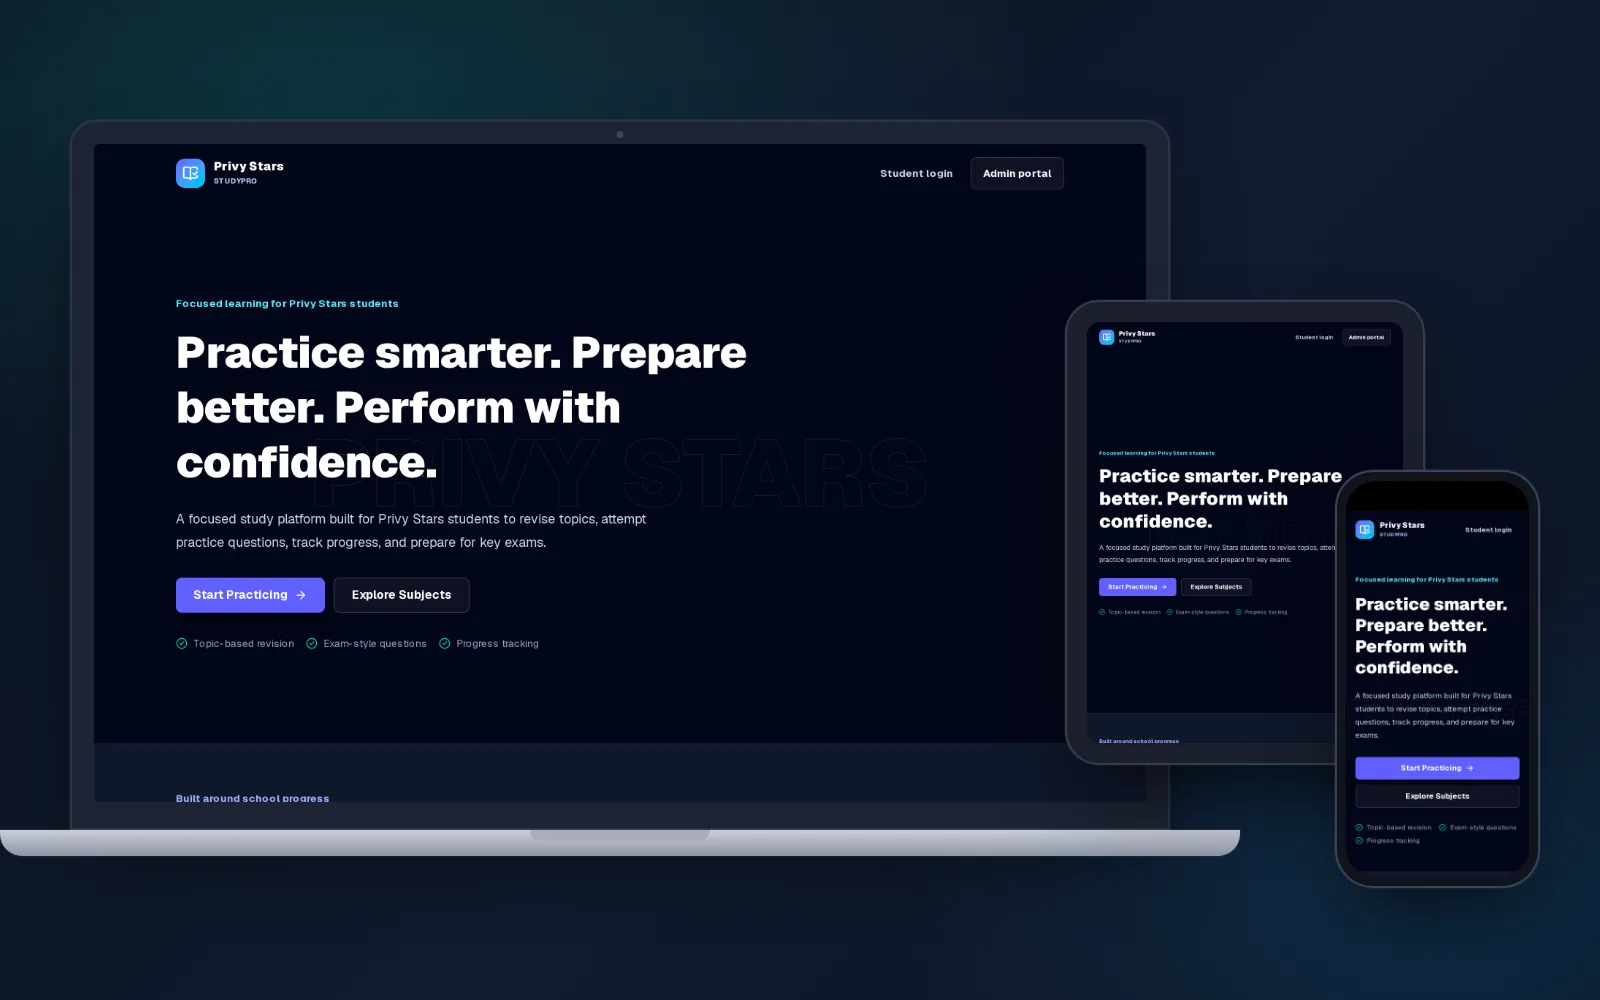
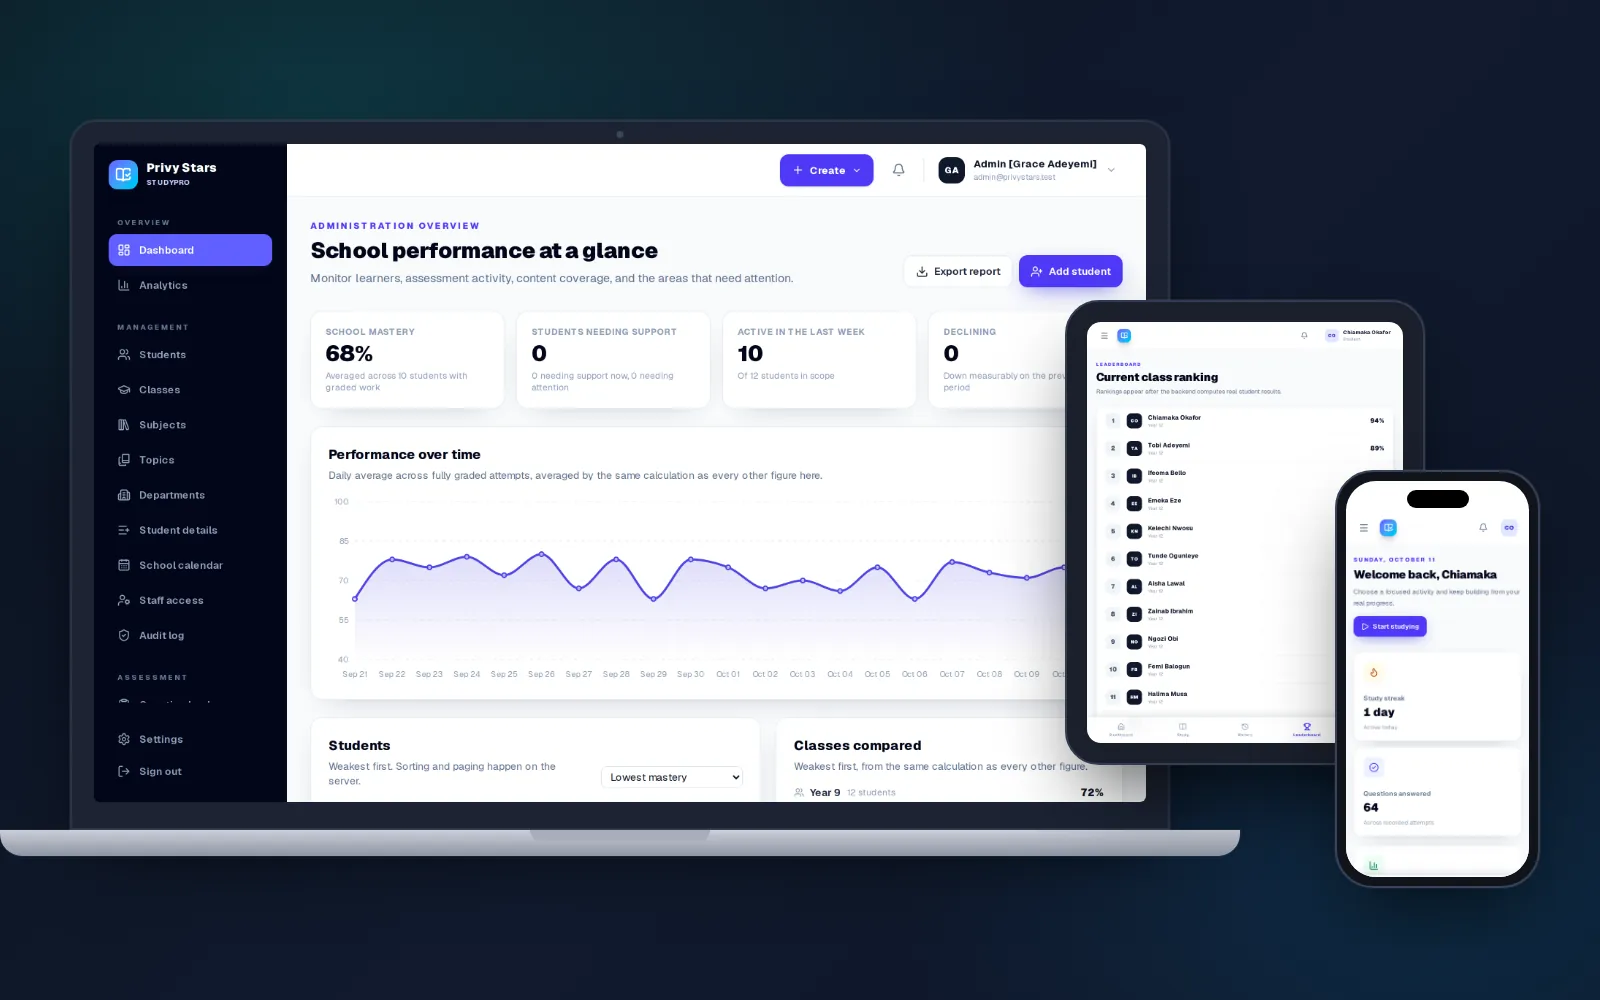
Add 316 REGGZ and FastUI; real StudyPro screens; phone-only app mockups
- New projects: 316 REGGZ (creative studio site) and FastUI, each built
  and captured locally on desktop, tablet and phone.
- StudyPro mockup now shows the real admin dashboard, class leaderboard
  and student dashboard, captured from a local backend with sample data.
- Finance Tracker and Dera Library, being mobile apps, are shown on three
  phones only.
- Phone status bars in every mockup now match the app's own colour.

Claude-Session: https://claude.ai/code/session_01CryoP9s3CBH3DpE9Uxr1Vy

diff --git a/src/data/projects.ts b/src/data/projects.ts
@@ -13,6 +13,8 @@ import timeTableMockup from "../assets/projects/time-table.webp";
 import mathExamEditorMockup from "../assets/projects/math-exam-editor.webp";
 import streamvibeMockup from "../assets/projects/streamvibe.webp";
 import banqueeMockup from "../assets/projects/banquee.webp";
+import reggzMockup from "../assets/projects/316-reggz.webp";
+import fastUiMockup from "../assets/projects/fast-ui.webp";
 import type { Project } from "../types";
 
 /**
@@ -80,6 +82,21 @@ A separate admin dashboard (React, Vite and Firebase) lets the spa confirm, canc
     order: 4,
   },
   {
+    id: "316-reggz",
+    slug: "316-reggz",
+    title: "316 REGGZ",
+    imageUrl: reggzMockup,
+    summary: "Image-led portfolio for an independent Lagos creative studio, built like an album rather than a filing cabinet.",
+    description: `316 REGGZ is a creative studio in Lagos working across design, motion, branding and visual direction. The website puts the artwork first: large images, typography with attitude, and motion as part of the storytelling.
+
+At its centre is the Album, a growing archive of music artwork, brand identities, campaign visuals and motion work, with a page for each project, plus company, works and contact pages.
+
+Built with Next.js, TypeScript and Sass, with GSAP animation, Swiper carousels and a masonry gallery, statically generated for speed.`,
+    liveUrl: "https://316-reggz-website.vercel.app",
+    tech: ["Next.js", "TypeScript", "Sass", "GSAP", "Swiper"],
+    order: 5,
+  },
+  {
     id: "blogger",
     slug: "blogger",
     title: "Portfolio & Publishing CMS",
@@ -92,7 +109,7 @@ Firebase handles auth, Firestore and storage, with permissions enforced by secur
 Quality is covered by unit tests, API checks against the Firebase emulators and Playwright end-to-end tests on desktop and mobile in CI.`,
     repoUrl: "https://github.com/bos-code/blogger",
     tech: ["React 19", "TypeScript", "Firebase", "TipTap", "TanStack Query", "Playwright"],
-    order: 5,
+    order: 6,
   },
   {
     id: "finance-tracker",
@@ -107,7 +124,7 @@ Transactions can be captured offline; changes are queued and synced to Supabase 
 Supabase Auth handles accounts and password resets, and the app is protected by a secure PIN with optional biometrics.`,
     repoUrl: "https://github.com/bos-code/finance_tracker",
     tech: ["React Native", "Expo", "Supabase", "TanStack Query", "NativeWind"],
-    order: 6,
+    order: 7,
   },
   {
     id: "chinel-media",
@@ -121,7 +138,7 @@ The home page uses interactive 3D scenes built with Three.js and React Three Fib
 
 Built with Next.js, TypeScript and Tailwind CSS, with forms validated by React Hook Form and Zod.`,
     tech: ["Next.js", "Three.js", "React Three Fiber", "GSAP", "TypeScript"],
-    order: 7,
+    order: 8,
   },
   {
     id: "derashare",
@@ -137,7 +154,7 @@ It installs as a PWA, and CI runs formatting, linting, type checks, server integ
     liveUrl: "https://derashare.vercel.app",
     repoUrl: "https://github.com/bos-code/Derashare",
     tech: ["Next.js", "TypeScript", "WebSockets", "Node.js", "PWA"],
-    order: 8,
+    order: 9,
   },
   {
     id: "starlite-tools",
@@ -152,7 +169,7 @@ The catalogue has 193 statically generated product pages, search, category, bran
 Built with the Next.js App Router, React 19, TypeScript and Tailwind CSS 4.`,
     repoUrl: "https://github.com/bos-code/starlight",
     tech: ["Next.js", "React 19", "TypeScript", "Tailwind CSS"],
-    order: 9,
+    order: 10,
   },
   {
     id: "ventum",
@@ -167,7 +184,7 @@ Visitors browse brands and products and send enquiries. Staff sign in to an admi
 A scheduled GitHub Action sends an activity report so the business sees new enquiries without logging in. Built with Next.js server actions and GSAP animation.`,
     repoUrl: "https://github.com/bos-code/ventum-automation",
     tech: ["Next.js", "TypeScript", "Appwrite", "GSAP", "GitHub Actions"],
-    order: 10,
+    order: 11,
   },
   {
     id: "dera-library",
@@ -182,7 +199,7 @@ A custom native module walks shared storage when all-files access is granted, wi
 Built with Expo Router, React Native, Reanimated and FlashList.`,
     repoUrl: "https://github.com/bos-code/Dera_library",
     tech: ["React Native", "Expo", "SQLite", "Kotlin module"],
-    order: 11,
+    order: 12,
   },
   {
     id: "time-table",
@@ -195,7 +212,7 @@ Built with Expo Router, React Native, Reanimated and FlashList.`,
 A FastAPI backend feeds that demand into Google OR-Tools, which blocks teacher and class clashes and spreads lessons across the week. The React + Vite front end handles data entry, validation and the generated timetable.`,
     repoUrl: "https://github.com/bos-code/time-table",
     tech: ["React", "FastAPI", "OR-Tools", "Material UI", "Tailwind CSS"],
-    order: 12,
+    order: 13,
   },
   {
     id: "math-exam-editor",
@@ -208,7 +225,23 @@ A FastAPI backend feeds that demand into Google OR-Tools, which blocks teacher a
 Existing question banks can be imported from Excel with a preview step, and finished exams export to Excel or JSON. Everything runs in memory, with no backend.`,
     repoUrl: "https://github.com/bos-code/editor",
     tech: ["React", "TypeScript", "TipTap", "MathLive", "KaTeX", "SheetJS"],
-    order: 13,
+    order: 14,
+  },
+  {
+    id: "fast-ui",
+    slug: "fast-ui",
+    title: "FastUI",
+    imageUrl: fastUiMockup,
+    summary: "Dark, animated agency landing page with a swipeable work gallery, pricing, FAQ and contact sections.",
+    description: `FastUI is a responsive landing page for a design agency, with a glassmorphism navigation bar, a gradient hero, and sections for services, a work gallery, pricing, FAQs and contact.
+
+The work gallery is a SwiperJS carousel that adapts from desktop to touch-friendly swiping on phones, and GSAP drives the entrance animations.
+
+Built with Tailwind CSS, SwiperJS and GSAP on Vite, and deployed on Vercel.`,
+    liveUrl: "https://fast-ui-murex.vercel.app",
+    repoUrl: "https://github.com/bos-code/fast-ui",
+    tech: ["Tailwind CSS", "SwiperJS", "GSAP", "Vite"],
+    order: 15,
   },
   {
     id: "streamvibe",
@@ -219,7 +252,7 @@ Existing question banks can be imported from Excel with a preview step, and fini
     liveUrl: "https://stream-vibe-movies.vercel.app/",
     repoUrl: "https://github.com/bos-code/stream-vibe-movies",
     tech: ["React", "TMDb API", "REST"],
-    order: 14,
+    order: 16,
   },
   {
     id: "banquee",
@@ -230,6 +263,6 @@ Existing question banks can be imported from Excel with a preview step, and fini
     liveUrl: "https://banquee-eta.vercel.app/",
     repoUrl: "https://github.com/bos-code/Banquee",
     tech: ["React", "SwiperJS", "Vercel"],
-    order: 15,
+    order: 17,
   },
 ];
